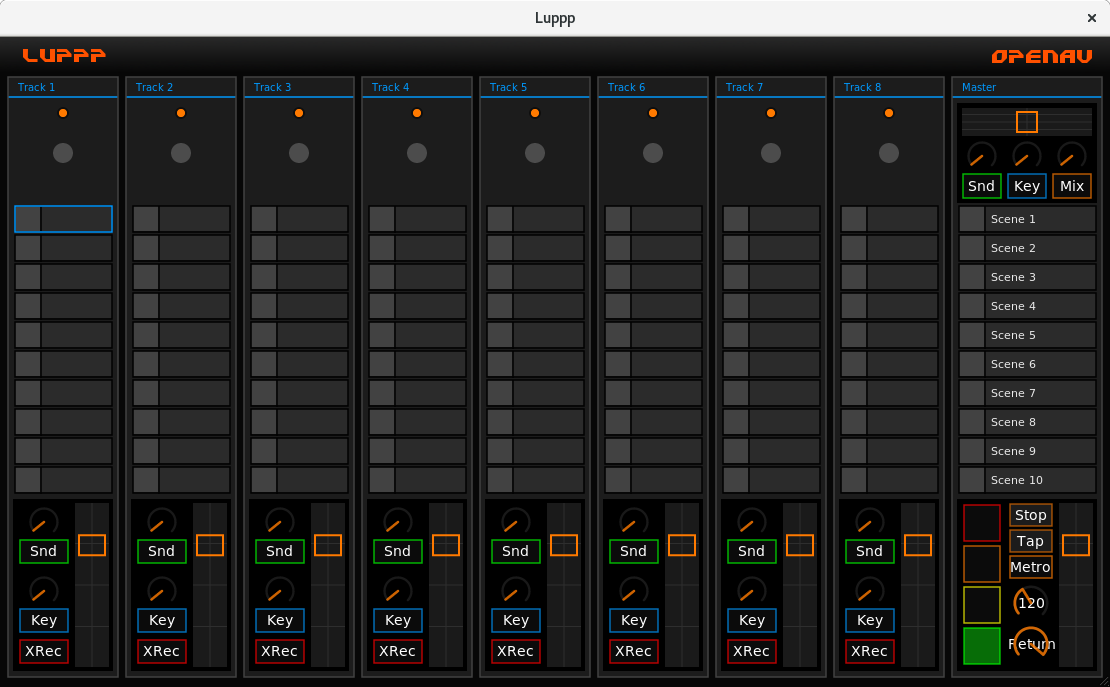
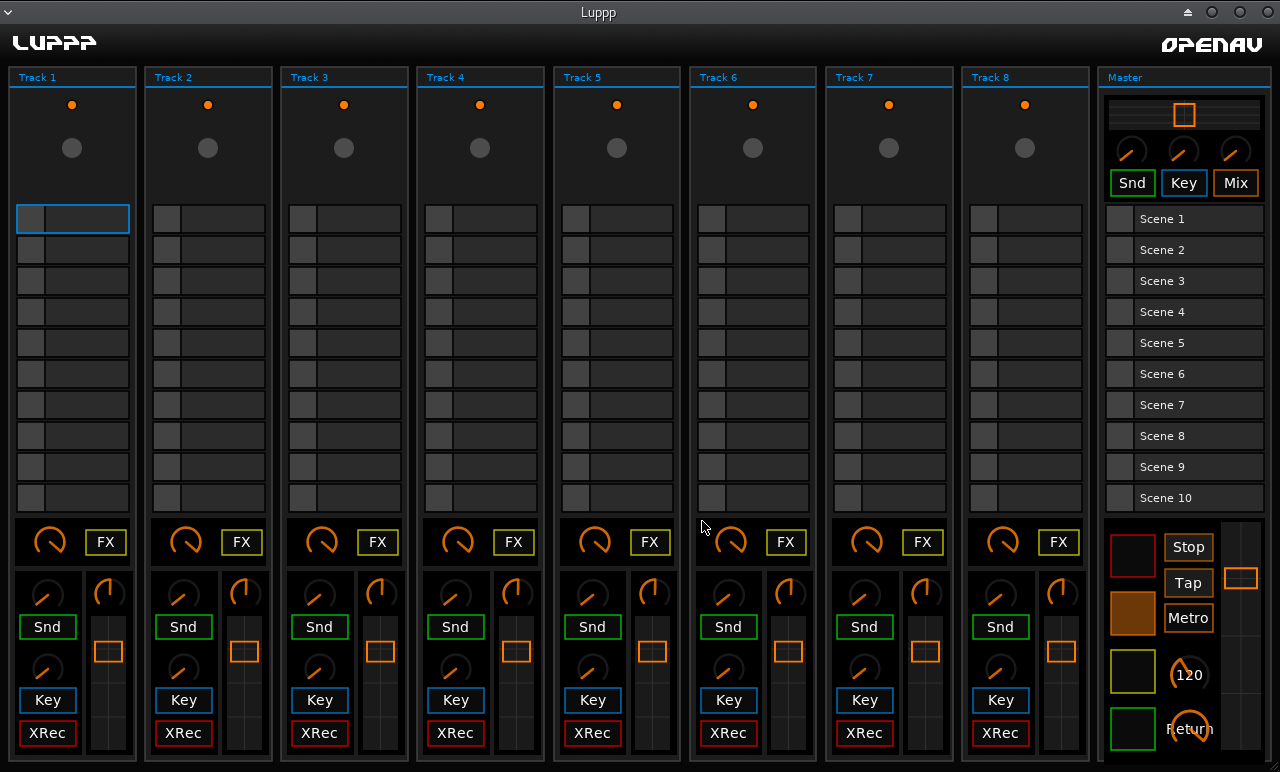
updated to version 1.1.1

diff --git a/source/luppp.rst b/source/luppp.rst
@@ -76,7 +76,7 @@ Its pretty useful to look at it when recording other clips in the same row.
 The next thing to come are the clips. You can give them a name with a right
 click, too. They also show the currect status of a clip, if its recording,
 playing or empty. On the buttom is a fader, which adjust the volume of the
-track mixed to the master. On the left side of the faders are some controls
+track mixed to the master. Around the faders there are some controls
 we look at in the next sections.
 
 .. Tip::
@@ -85,6 +85,27 @@ we look at in the next sections.
 	rows are binded to the subjacent scenes. Just try!
 
 -----
+
+Panning
+=======
+
+Before we get into the world of processing in Luppp, lets look on a pretty
+basic but powerful feature. It is introduced by version 1.1.1: The Panning.
+The knob above the fader of each track can split the signal to the two master 
+channels as you want. So you have the possibility to give each channel a place
+in the master mix. This is pretty simple, so lets move on...
+
+FX Section
+==========
+
+The first controls under the clip section ist the effect section. In your 
+jack connection manager of your choice you will notice the Send_track_X and
+Return_track_X ports. Connecting the send to the input of a plugin and the 
+output back to the returns of Luppp will send the audio through this plugin. 
+To enable the processing, click on the yellow FX Button. With the knob you can
+adjust the volume of the effect.
+This feature gives you endless possibilities. You could add as many effects as
+you want in any order. Just be creative!
 
 Reverb Send
 ===========
